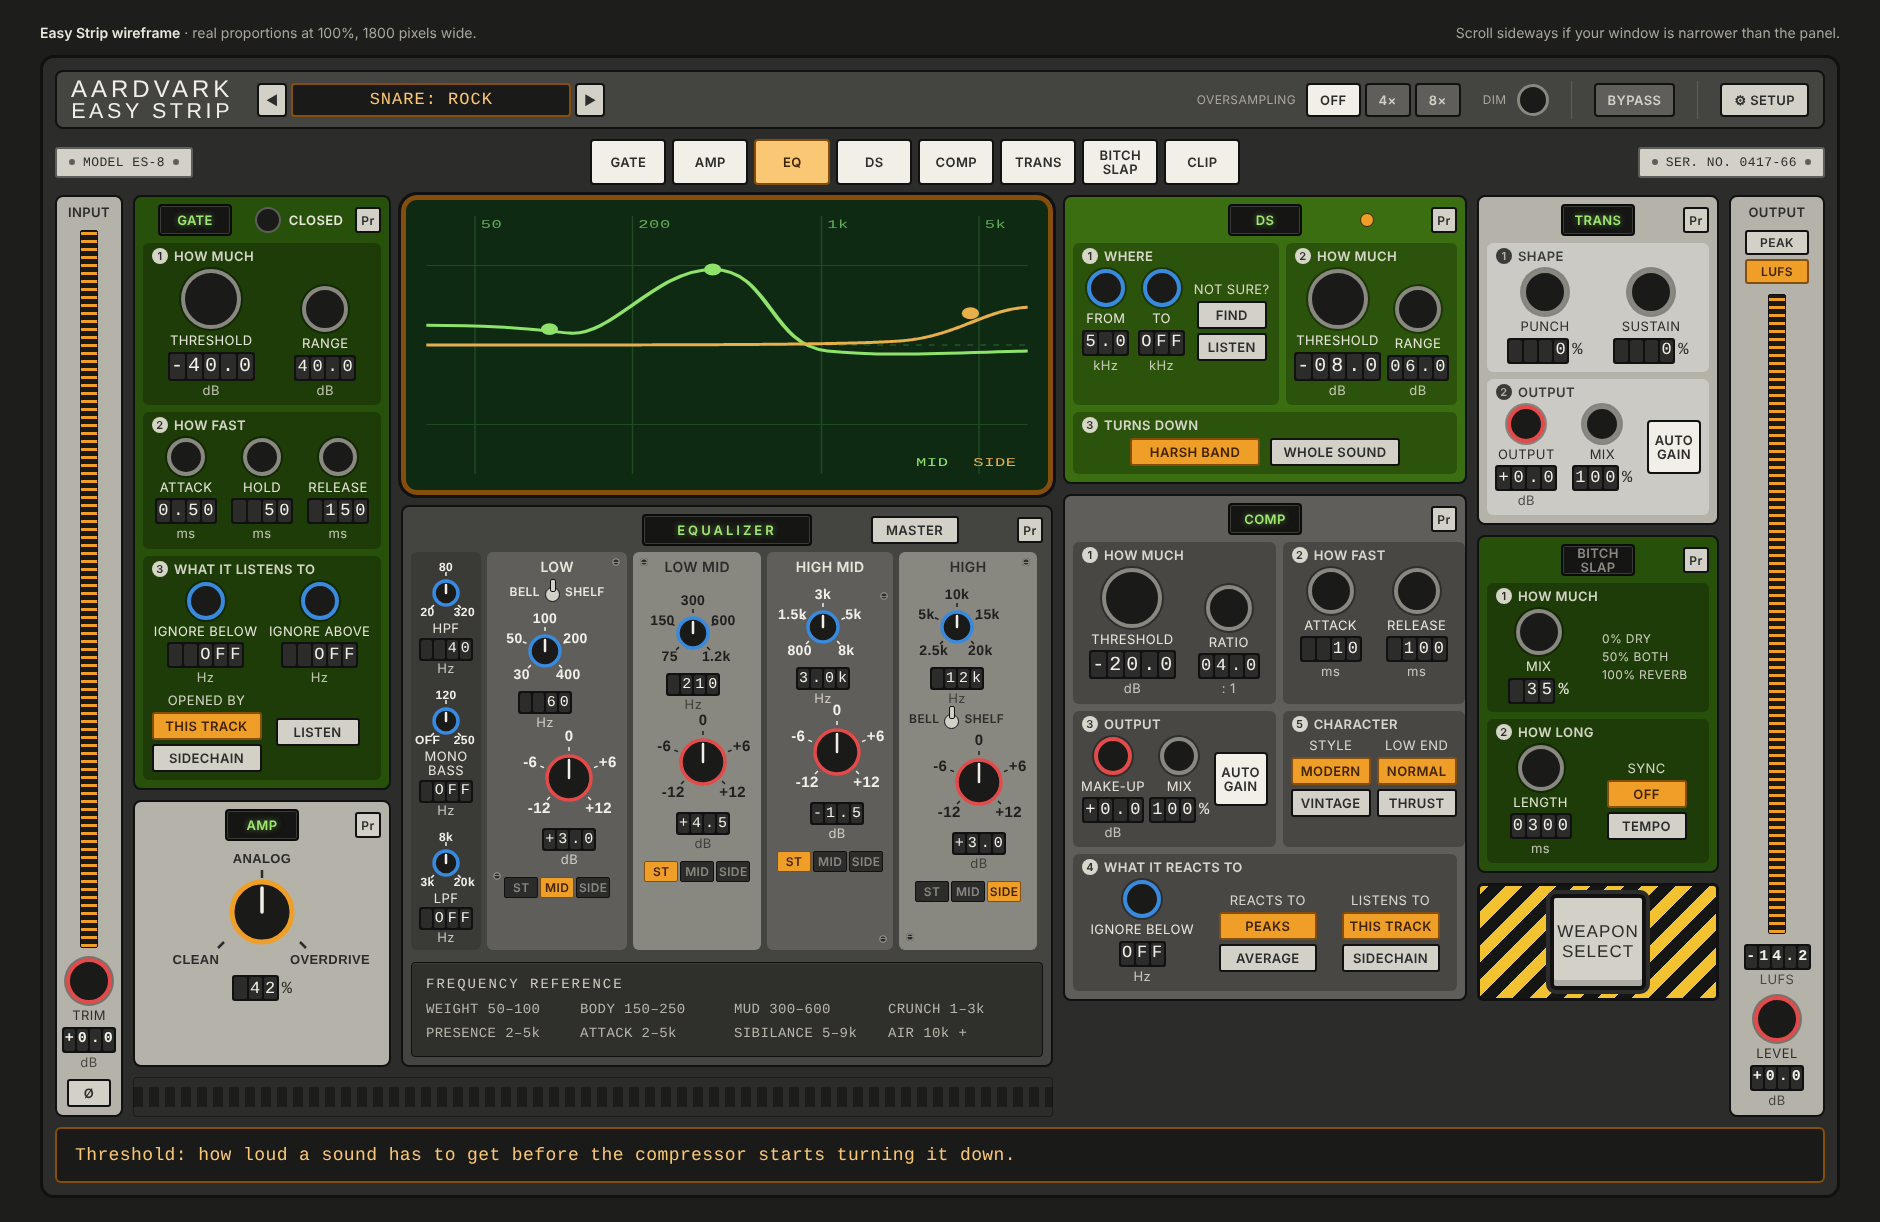
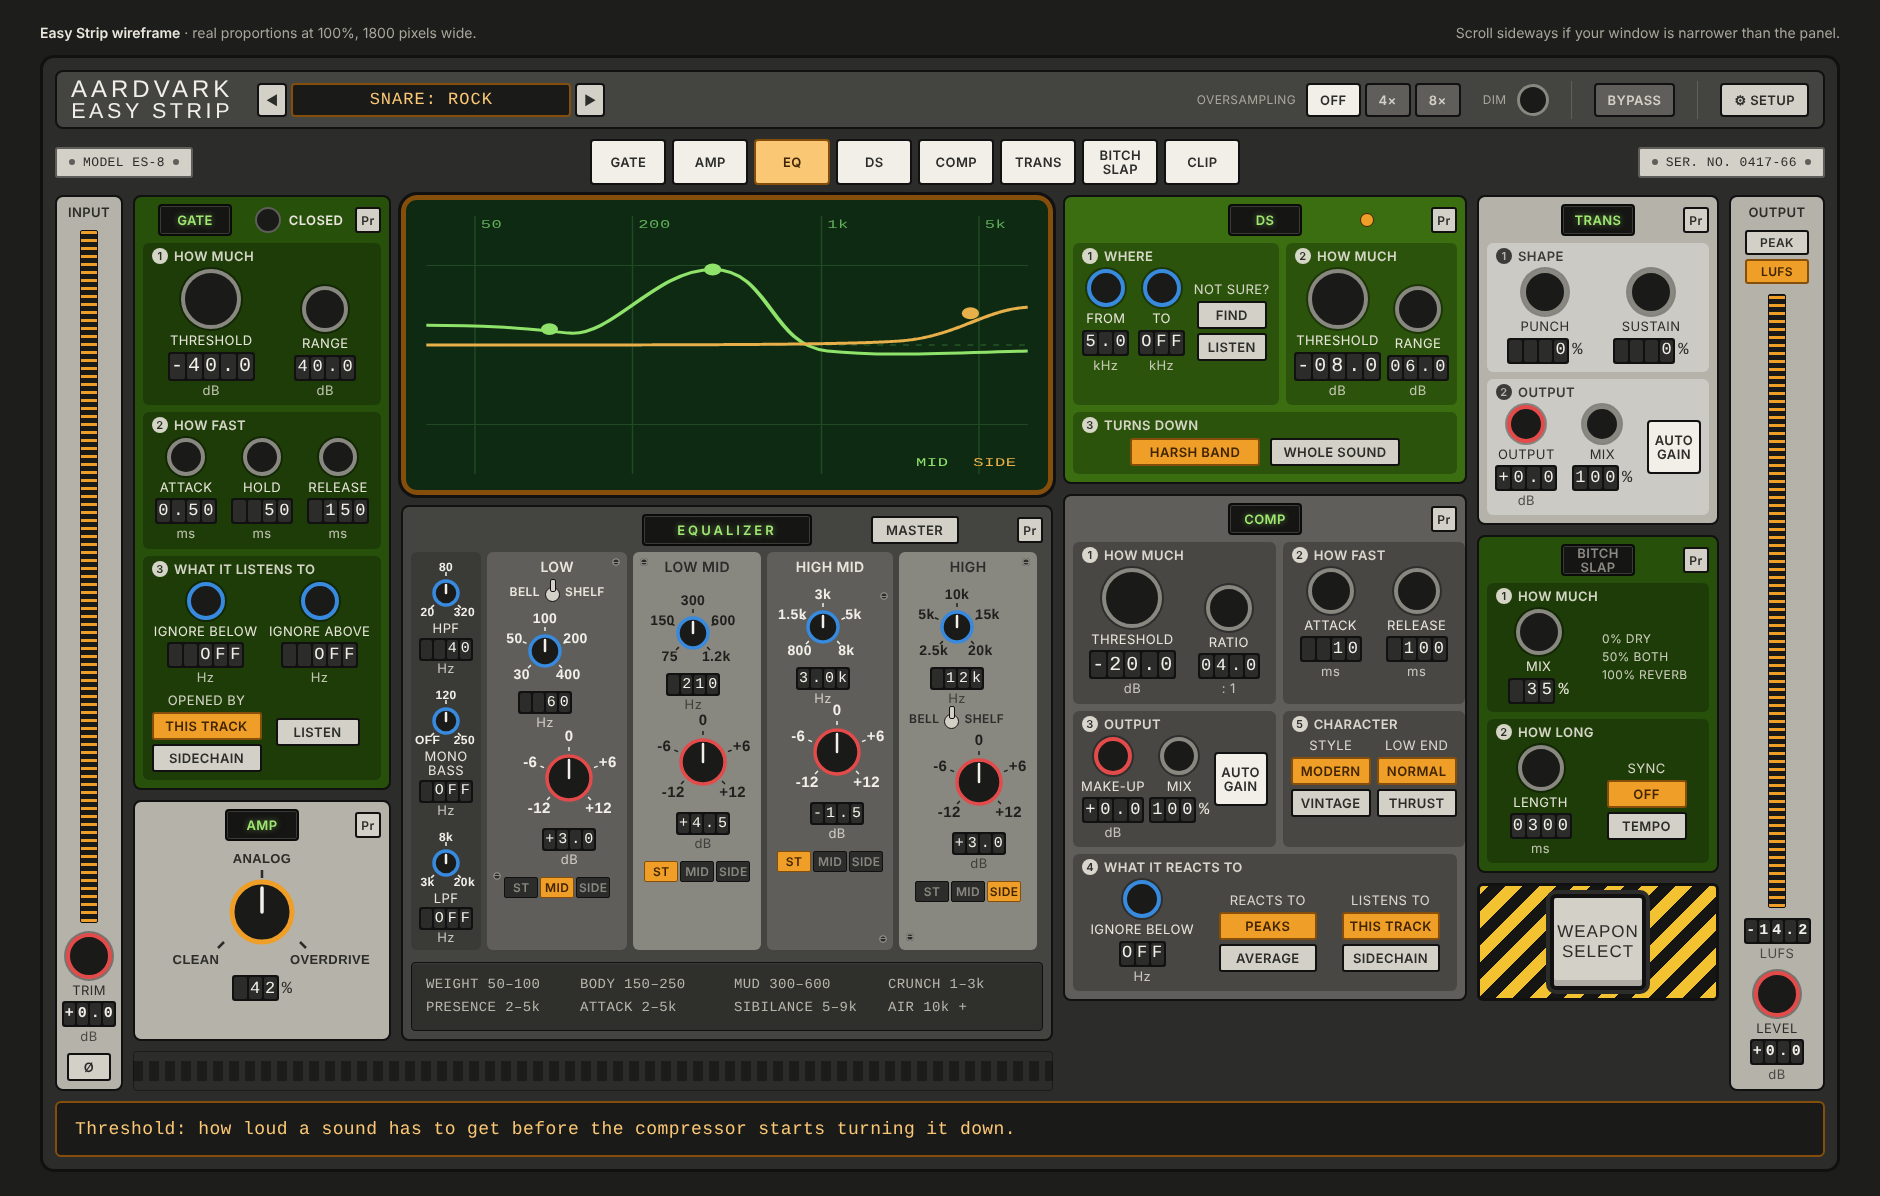
DevTools: reference plate without its heading [skip ci]
Claude-Session: https://claude.ai/code/session_01KRn7UbAFWVf9LHLqhN9U6j

Changed region(s): [[0.0309, 0.0309, 0.9872, 0.959], [0.3394, 0.2166, 0.4011, 0.2475]]

diff --git a/DevTools/Look/Strip/strip_wireframe_full_size.html b/DevTools/Look/Strip/strip_wireframe_full_size.html
@@ -200,7 +200,7 @@ body{background:var(--page);color:var(--ink);font-family:var(--label);margin:0;p
           <div class="tgt" style="margin-top:10px"><span>ST</span><span>MID</span><span class="on">SIDE</span></div></div>
         <div class="es" style="background:transparent"></div>
       </div>
-      <div class="refplate"><b>FREQUENCY REFERENCE</b><div class="r2"><span>WEIGHT 50–100</span><span>BODY 150–250</span><span>MUD 300–600</span><span>CRUNCH 1–3k</span><span>PRESENCE 2–5k</span><span>ATTACK 2–5k</span><span>SIBILANCE 5–9k</span><span>AIR 10k +</span></div></div>
+      <div class="refplate"><div class="r2"><span>WEIGHT 50–100</span><span>BODY 150–250</span><span>MUD 300–600</span><span>CRUNCH 1–3k</span><span>PRESENCE 2–5k</span><span>ATTACK 2–5k</span><span>SIBILANCE 5–9k</span><span>AIR 10k +</span></div></div>
     </div>
   </div>
 
